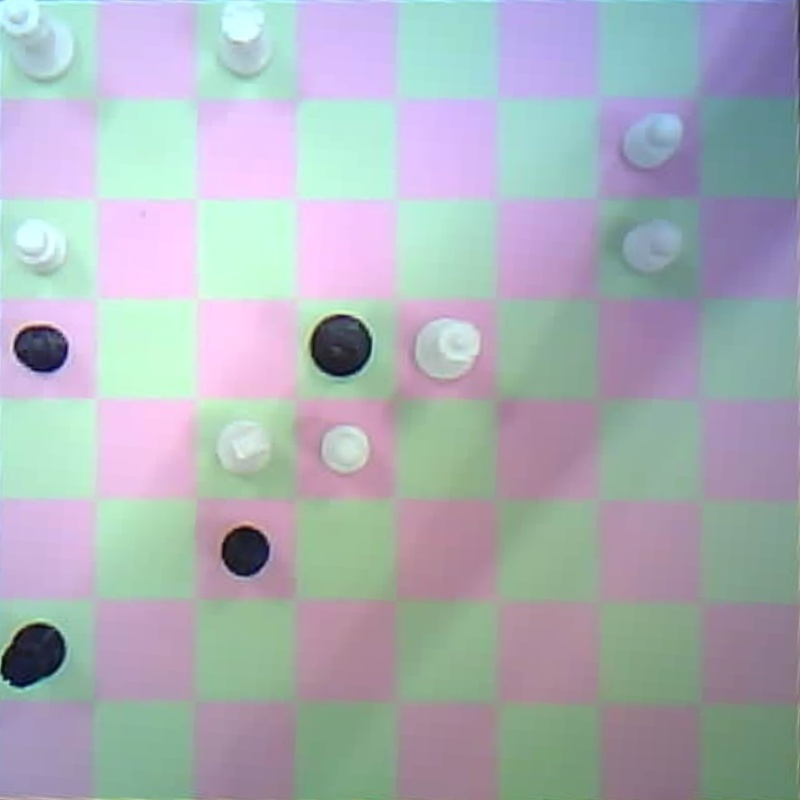
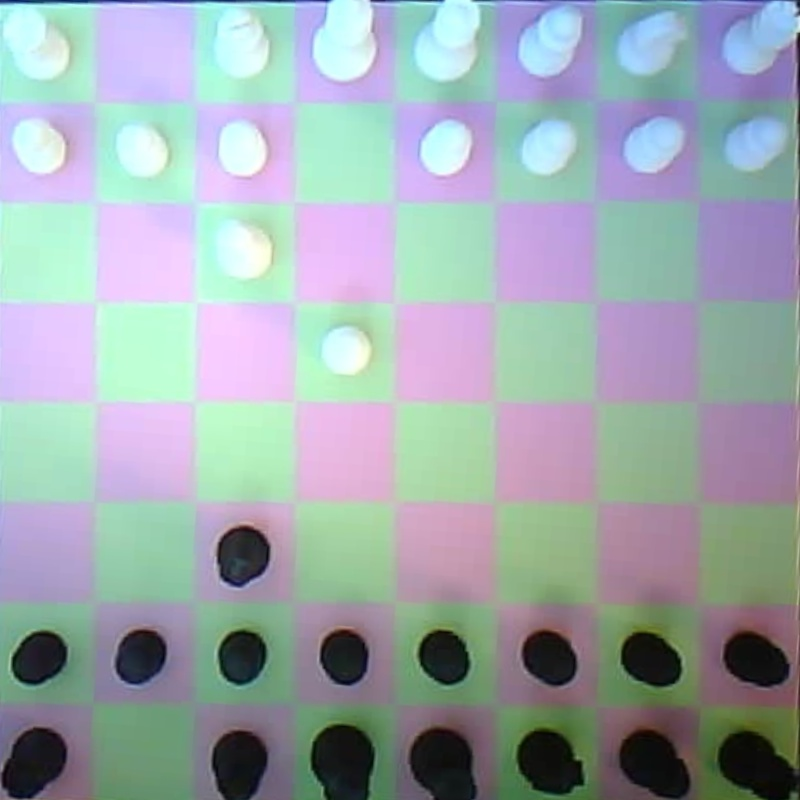
done

diff --git a/python_code/src/charm/game/game_controller.py b/python_code/src/charm/game/game_controller.py
@@ -134,6 +134,8 @@ class GameController:
         # the LCD controller mid-game). Otherwise sit in the main menu.
         board = self.session.get_current_board() if self.session else None
         if self.session and self.session.initialized and self.session.game_started and board is not None:
+            self.config.player_color = self.session.get_player_color() or "white"
+            self.config.flip_180 = (self.config.player_color == "black")
             try:
                 self.ui_link.set_difficulty(self.current_difficulty)
             except Exception as e:
@@ -387,7 +389,8 @@ class GameController:
         if board is not None and board.is_check():
             self.ui_link.send_check()
 
-        self._do_robot_move()
+        # Run the robot move in a background thread to prevent blocking the main loop.
+        threading.Thread(target=self._do_robot_move, daemon=True).start()
 
     def _do_robot_move(self) -> None:
         """Compute, physically execute, and commit the robot's next move."""
@@ -429,7 +432,10 @@ class GameController:
             self.ui_link.bot_promoting(robot_result.move_uci[4])
         self._write_state("bot_moving", bot_move=move_label)
 
-        execute_move(robot_result.move_uci, board, self.config.arm_ser, self.config.arm_lock, flip_180=self.config.flip_180)
+        # Drive the arm off the session's flip (set at init for both colors and
+        # already trusted by the camera read) rather than the config copy, so the
+        # arm and detection can never disagree about board orientation.
+        execute_move(robot_result.move_uci, board, self.config.arm_ser, self.config.arm_lock, flip_180=self.session.flip_180)
 
         # Commit the robot's move into the session's internal board.
         self.session.commit_robot_move(robot_result.move_uci)

diff --git a/python_code/src/charm/game/game_session.py b/python_code/src/charm/game/game_session.py
@@ -330,8 +330,12 @@ class GameSession:
         wb = white_bitmap
         bb = black_bitmap
         if flip_180:
-            wb = [list(reversed(row)) for row in reversed(wb)]
-            bb = [list(reversed(row)) for row in reversed(bb)]
+            # Rank-only mirror (reverse rows, keep files), matching the arm's
+            # _mirror_sq: the board is never physically rotated, so a Black game
+            # is a rank flip, NOT a full 180° (which would also swap a-file↔h-file
+            # and desync detection from arm placement after the first move).
+            wb = [list(row) for row in reversed(wb)]
+            bb = [list(row) for row in reversed(bb)]
 
         expected_board = chess.Board()
         mismatch_count = compare_board_to_bitmaps(expected_board, wb, bb)
@@ -391,8 +395,10 @@ class GameSession:
         wb = white_bitmap
         bb = black_bitmap
         if self.flip_180:
-            wb = [list(reversed(row)) for row in reversed(wb)]
-            bb = [list(reversed(row)) for row in reversed(bb)]
+            # Rank-only mirror (see initialize_from_bitmaps) so move detection
+            # stays in the same orientation as the arm's _mirror_sq placement.
+            wb = [list(row) for row in reversed(wb)]
+            bb = [list(row) for row in reversed(bb)]
         inference_result = self.tracker.update_from_bitmaps(
             wb, bb, max_mismatches=max_mismatches
         )

diff --git a/webapp_backend/api_server.py b/webapp_backend/api_server.py
@@ -3854,12 +3854,19 @@ def controller_start(payload: ControllerStartPayload):
             _CONTROLLER_STATE["last_error"] = f"ESP32 TCP connect failed: {exc}"
             raise HTTPException(502, _CONTROLLER_STATE["last_error"]) from exc
 
+        # Synchronize configuration with the active session state if already initialized
+        player_color = payload.player_color
+        flip_180 = payload.flip_180
+        if _GAME_SESSION.initialized and _GAME_SESSION.player_color:
+            player_color = _GAME_SESSION.player_color
+            flip_180 = (_GAME_SESSION.player_color == "black")
+
         config = GameControllerConfig(
             board_image_provider=lambda: str(LATEST_CALIBRATED_PATH),
             arm_ser=arm_ser,
             arm_lock=arm_lock,
-            player_color=payload.player_color,
-            flip_180=payload.flip_180,
+            player_color=player_color,
+            flip_180=flip_180,
             engine_path=_resolve_stockfish_path(payload.engine_path),
             think_time=payload.think_time,
             on_phase_change=_on_phase_change,
